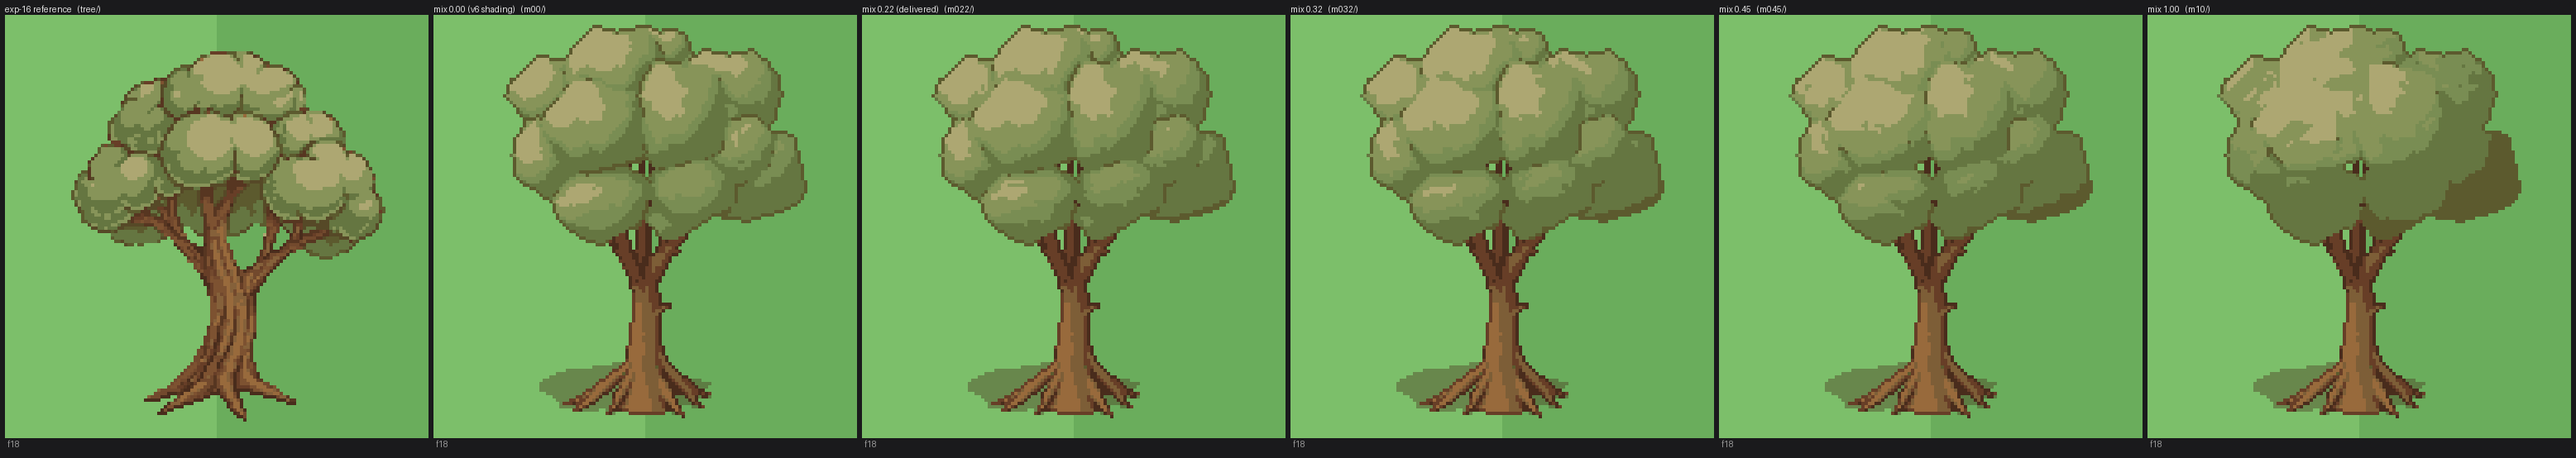
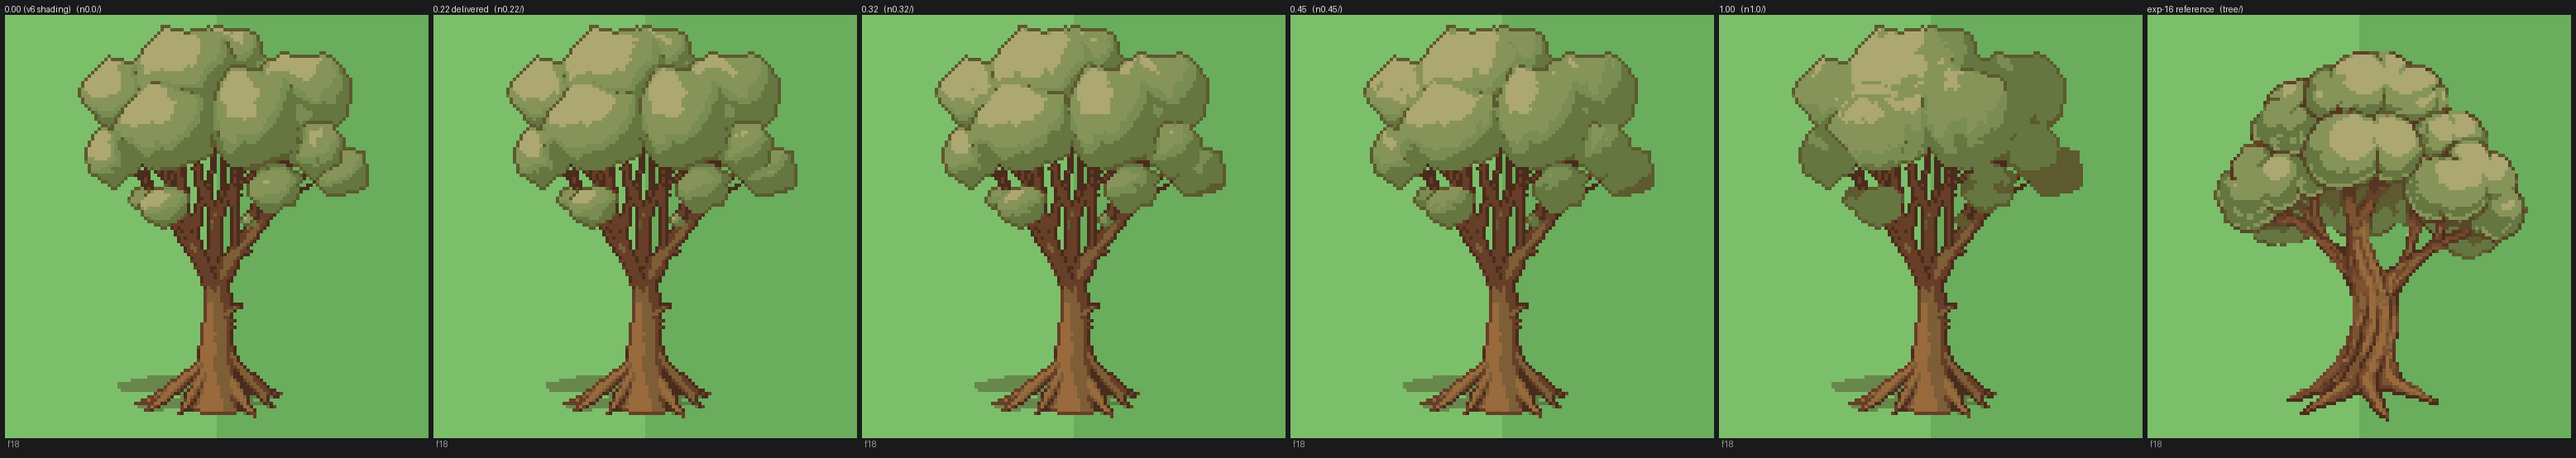
docs(chapter2): re-measure the crown-normals fork on the v8 crown
v7's shading fork — the table in blender_tree.py and crown-normals-fork.png
— was taken on the closed crown, and v8's low-crown lever changed the very
lobes those normals are blended against. A measurement table describing a
superseded shape is the same silent-staleness trap as a stale picture, and
it is five one-frame renders to not carry it. All five rows and the picture
re-rendered in one pass, so no cell straddles an edit.

Two things fall out, and both are worth more than the renders cost:

  - v7's CENTRAL CLAIM re-verifies at the new geometry instead of being
    inherited: bark is 629-631 px at every mix from 0 to 1, flat, exactly
    as it was 206-207 flat on the closed crown. Shading decides which band
    a canopy pixel takes and never whether a pixel is canopy.

  - 0.22 SURVIVES and is now the strict optimum where it used to be a
    considered compromise. It is the outright peak of the highlight column
    (759, over 0.32's 751 and 0.45's 709 — on the v7 crown both of those
    were higher than it), and its largest cap at 28% is the nearest row to
    exp-16's 30%. The percolation point moved out too: the caps used to
    collapse into one blob between 0.32 and 0.45 and now hold to 0.45.

Nothing re-tuned; the default is unchanged. It is now a statement about the
tree we ship rather than one about a tree we no longer do.

diff --git a/docs/research/chapter2-code-only-art-2026-08-01/blender-hero-v1/blender_tree.py b/docs/research/chapter2-code-only-art-2026-08-01/blender-hero-v1/blender_tree.py
@@ -589,24 +589,34 @@ CANOPY_CORE_LIFT = float(arg("--core-lift", "0.20"))
 # structure. Measured on the mature frame, every row with the funnel floor below in place
 # so the fork moves exactly one variable:
 #
+# RE-MEASURED ON THE v8 CROWN, because the table below was taken on the v7 geometry and
+# the low-crown lever above changed the very lobes these normals are blended against. A
+# measurement table that describes a superseded shape is the same silent-staleness trap the
+# fork PICTURES have (see the README's §5 note on `frames/contact-sheet.png`), and it is
+# worth five one-frame renders to not carry it. All five rows re-rendered in one pass:
+#
 #     mix   highlight        caps   largest   cap sizes             bark
-#     0.00     826 (17.6%)     12       21%   177 168 148 103 72    206   <- v6's shading
-#     0.22     889 (19.0%)     11       25%   221 217 155 135 60    206   <- delivered
-#     0.32     902 (19.2%)      9       54%   486 159 143  50 37    207
-#     0.45     909 (19.4%)      7       76%   687 160  37  19  3    207
-#     1.00     821 (17.5%)     11       79%   650 130  24   7  3    206
+#     0.00     729 (17.7%)     13       24%   178 141 129  91 77    631   <- v6's shading
+#     0.22     759 (18.4%)     13       28%   216 175 125 122 43    631   <- delivered
+#     0.32     751 (18.2%)     13       32%   243 182 129 120 33    630
+#     0.45     709 (17.2%)      8       38%   266 190 128 105 13    629
+#     1.00     476 (11.5%)     13       76%   363  67  25   8  3    629
 #     exp-16   874 (20.4%)     12       30%   261 244 198  83 45    670
 #
-# Between 0.32 and 0.45 the separate caps PERCOLATE into one blob, and past that the
-# highlight FALLS again — a bare ellipsoid presents less area to the key than a crown of
-# clumps does. 0.22 buys essentially all the highlight 0.32 does (19.0 vs 19.2) while
-# landing on exp-16's cap architecture instead of overshooting it, so the pick is the
-# reference's STRUCTURE rather than the largest number in a column.
+# 0.22 SURVIVES THE RE-MEASUREMENT AND IS NOW THE STRICT OPTIMUM, where on the closed crown
+# it was a considered compromise. It is the peak of the highlight column outright (759, over
+# 0.32's 751 and 0.45's 709 — on the v7 crown those two were both slightly HIGHER than it),
+# and its largest cap at 28% is the nearest to exp-16's 30% of any row. Opening the lower
+# crown moved the percolation point too: the caps used to collapse into one blob between
+# 0.32 and 0.45, and now hold their structure to 0.45 and only percolate by 1.00. Nothing
+# had to be re-tuned — the default is unchanged — but that is now a measured statement about
+# the delivered tree rather than one inherited from a tree we no longer ship.
 #
-# Read the last column too, because it is the honest limit of this technique: BARK IS
-# 206-207 PX AT EVERY MIX FROM 0 TO 1. Normals decide which band a canopy pixel takes and
-# never whether a pixel is canopy, so nothing here touches how much limb you can see —
-# that is the funnel floor's column, and even it only reaches 206 against exp-16's 670.
+# Read the last column too, because it is the honest limit of this technique, and it is the
+# claim v8 re-verified rather than assumed: BARK IS 629-631 PX AT EVERY MIX FROM 0 TO 1, as
+# it was 206-207 flat on the closed crown. Normals decide which band a canopy pixel takes
+# and never whether a pixel is canopy, so nothing here touches how much limb you can see —
+# that is the low-crown lever's column, and it is what took bark from 206 to 631.
 CROWN_NORMAL_MIX = float(arg("--crown-normals", "0.22"))
 if not 0.0 <= CROWN_NORMAL_MIX <= 1.0:
     raise SystemExit(f"--crown-normals must be 0..1, got {CROWN_NORMAL_MIX}")

diff --git a/docs/research/chapter2-code-only-art-2026-08-01/blender-hero-v1/README.md b/docs/research/chapter2-code-only-art-2026-08-01/blender-hero-v1/README.md
@@ -36,7 +36,7 @@ Blender's bundled 2.3.4. `--only 4,9,18` renders a subset for the tight loop; su
 identical to those frames of a full run. The plan line prints the crown proxy's extent and, since
 this increment, **the bark proxy** (§1).
 
-**Six exploratory flags, all defaulting to the delivered track.** `--low-shrink` and `--low-splay`
+**Seven exploratory flags, all defaulting to the delivered track.** `--low-shrink` and `--low-splay`
 are new (§3); `--core-lift` is new but exists only to calibrate the bark proxy (§1) and to keep v7's
 exhausted-lever measurement runnable; `--crown-normals` (v7 §3), `--leaf-on`/`--leaf-full` (ADR-0293,
 owner-picked), `--framing fixed|per-stage|eased` (§5) and `--skeleton` (settled by ADR-0289 D3) are
@@ -139,6 +139,29 @@ toward the rim: keep the outer lobes full, empty only the middle. Measured at sh
 for 169 and 300 px of bark — about **85 px of bark per point of floor**, against a lever whose whole
 purpose is bark. Pushing the shrink to 1.0 to pay for it does not get it back (477). The fade was
 deleted rather than left as a knob at zero.
+
+**v7's shading fork was RE-MEASURED on the opened crown rather than inherited**, because the
+low-crown lever changed the very lobes those normals are blended against, and a measurement table
+describing a superseded shape is the same silent-staleness trap as a stale picture. Five one-frame
+renders, one pass, `crown-normals-fork.png` re-rendered with them:
+
+| mix | highlight | caps | largest | bark |
+|---|---|---|---|---|
+| 0.00 | 729 (17.7%) | 13 | 24% | 631 |
+| **0.22 (delivered)** | **759 (18.4%)** | **13** | **28%** | **631** |
+| 0.32 | 751 (18.2%) | 13 | 32% | 630 |
+| 0.45 | 709 (17.2%) | 8 | 38% | 629 |
+| 1.00 | 476 (11.5%) | 13 | 76% | 629 |
+| exp-16 | 874 (20.4%) | 12 | 30% | 670 |
+
+Two things fall out. **v7's central claim re-verifies at the new geometry**: bark is 629–631 px at
+every mix from 0 to 1, flat, exactly as it was 206–207 flat on the closed crown — shading decides
+which band a canopy pixel takes and never whether a pixel is canopy. And **0.22 survives and is now
+the strict optimum** where it used to be a considered compromise: it is the outright peak of the
+highlight column (0.32 and 0.45 were both slightly higher on the v7 crown) and its largest cap at 28%
+is the nearest row to exp-16's 30%. The percolation point moved out too — the caps used to collapse
+into one blob between 0.32 and 0.45 and now hold to 0.45. Nothing was re-tuned; the default is
+unchanged. It is simply now a statement about the tree we ship.
 
 **The funnel floor now contributes nothing to bark**, and that is worth recording so nobody re-turns
 it. Rendered at the delivered shrink, `CANOPY_CORE_LIFT` 0.20 → 631 px of bark and 0.00 → **631**, the
